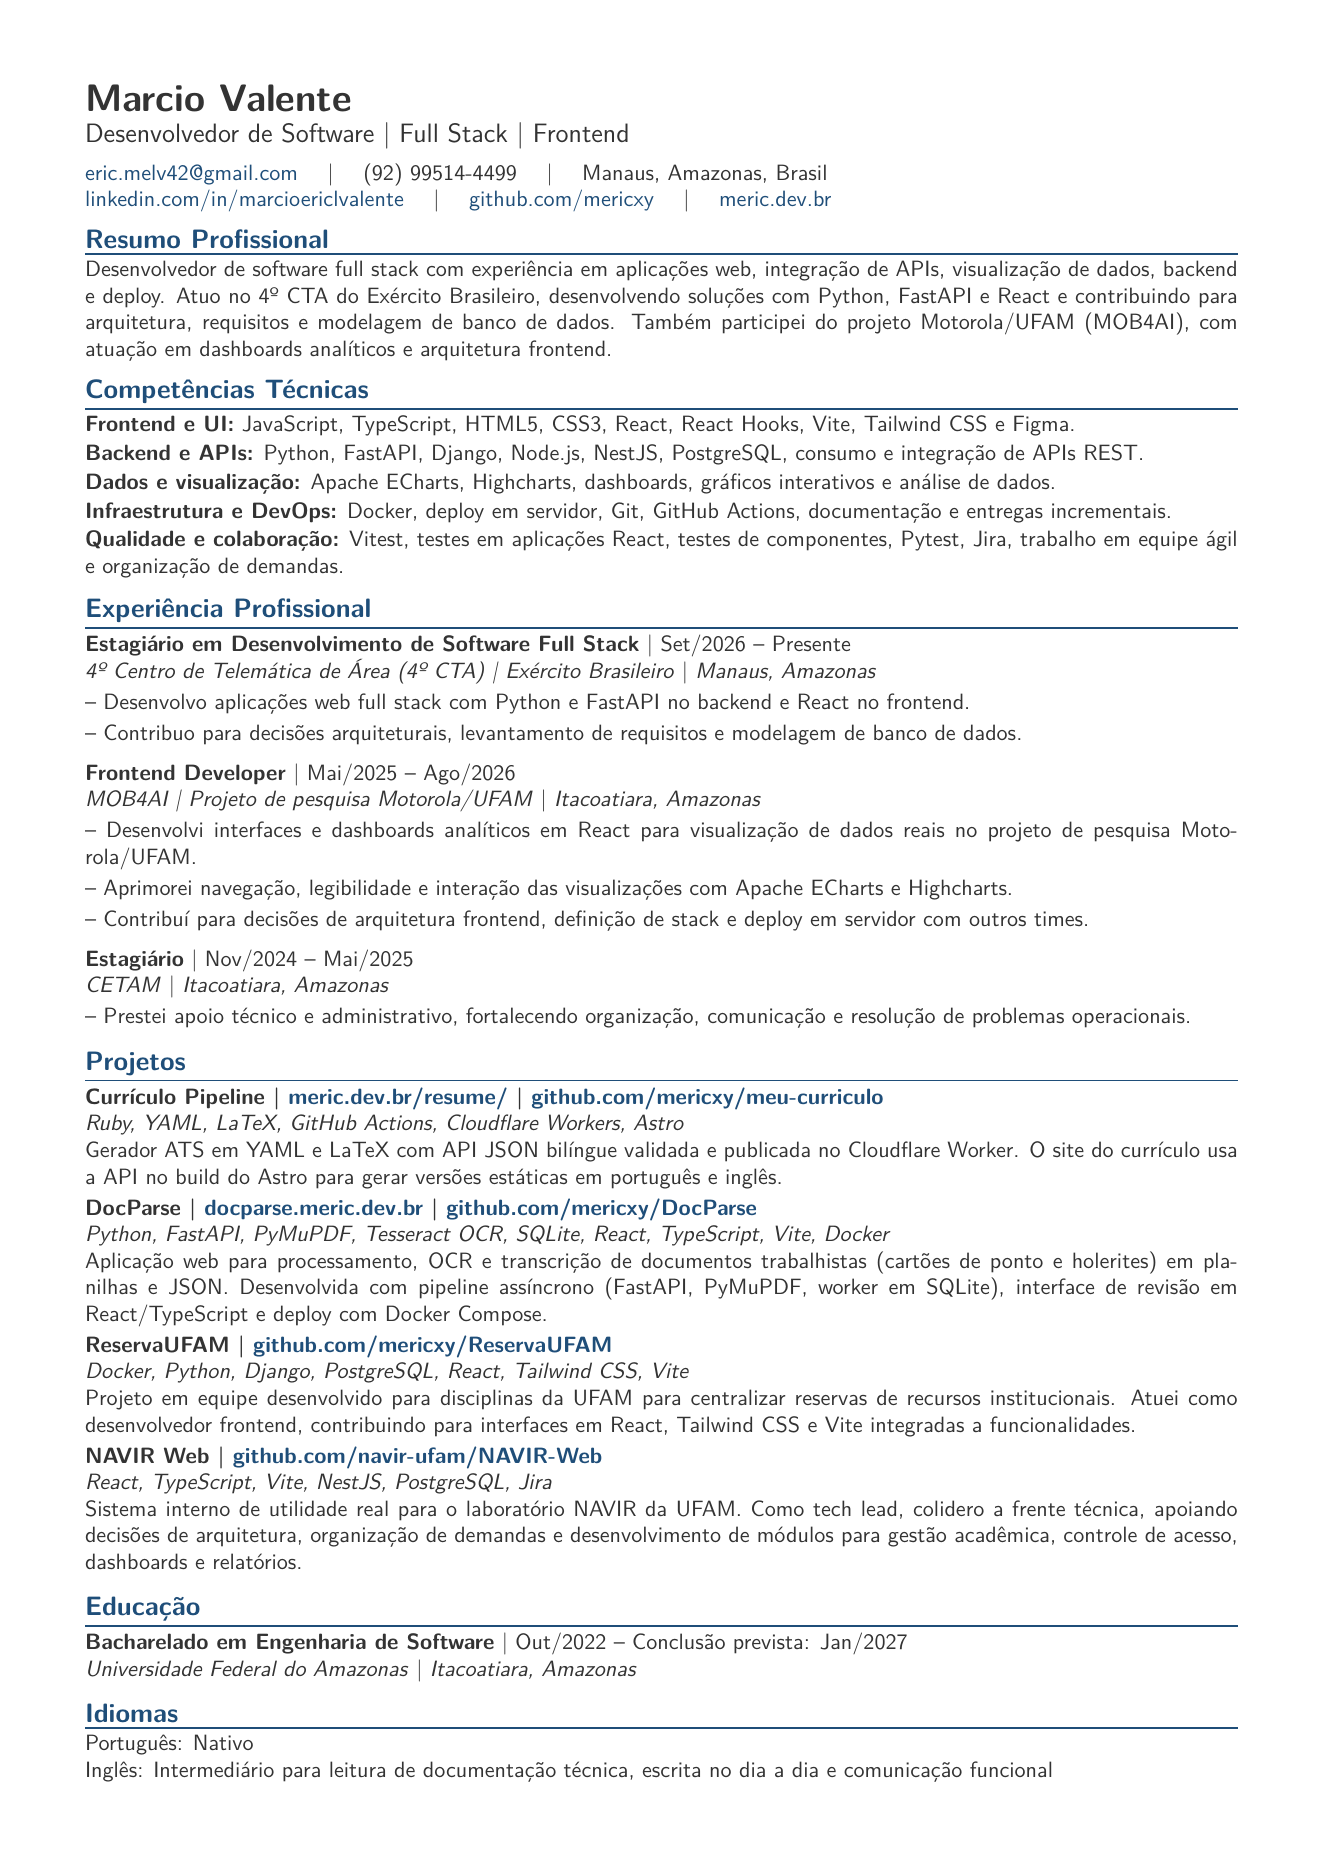
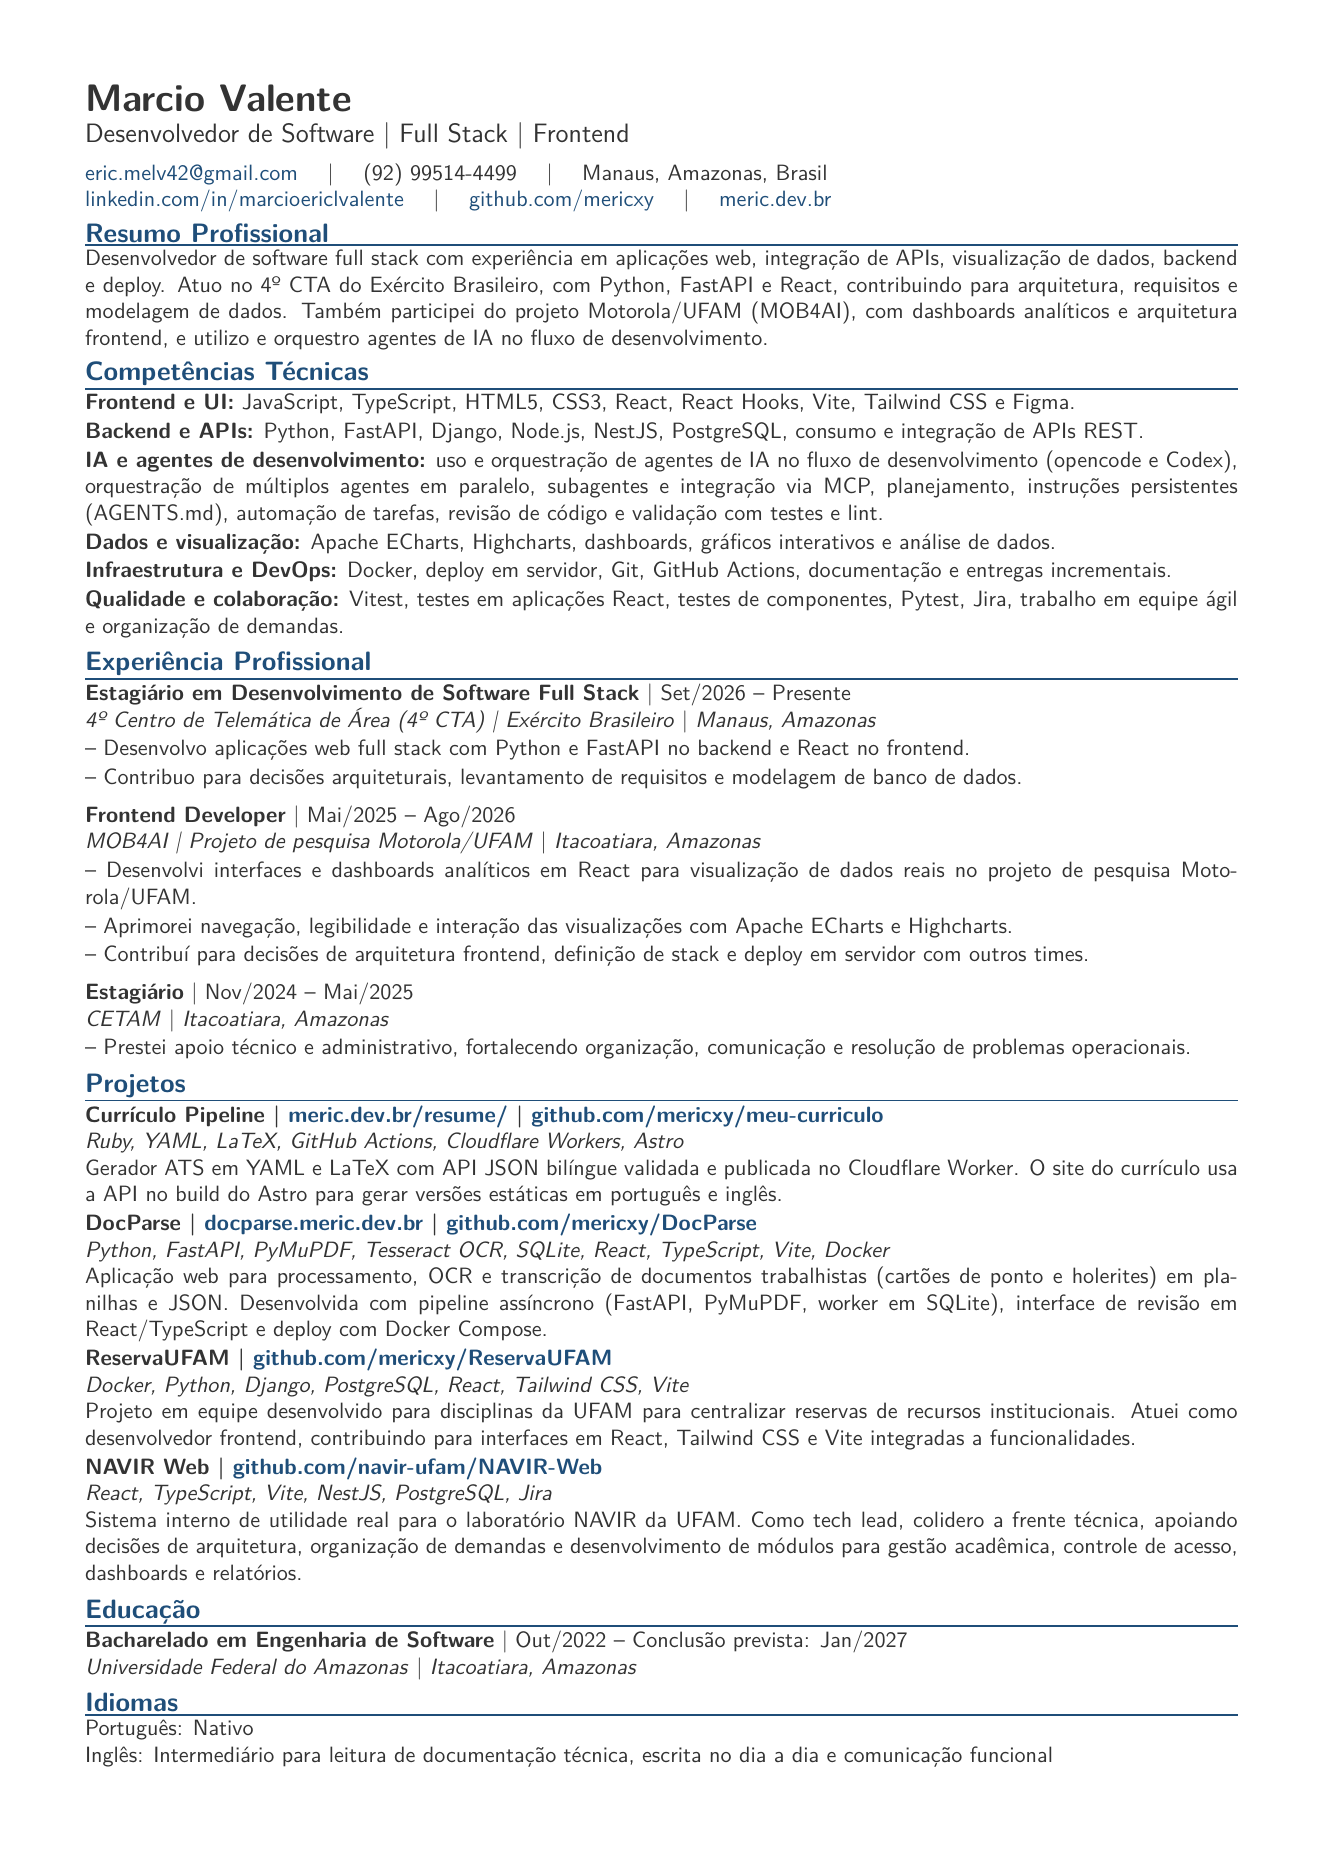
Add AI agent orchestration skills to software resume

Changed region(s): [[0.062, 0.124, 0.9297, 0.961], [0.5268, 0.868, 0.5888, 0.899], [0.6508, 0.868, 0.6818, 0.899]]

diff --git a/curriculo.tex b/curriculo.tex
@@ -4,11 +4,12 @@
 \resumeheader{Marcio Valente}{Desenvolvedor de Software | Full Stack | Frontend}{\href{\detokenize{mailto:eric.melv42@gmail.com}}{eric.melv42@gmail.com}}{(92) 99514-4499}{Manaus, Amazonas, Brasil}{\href{\detokenize{https://www.linkedin.com/in/marcioericlvalente}}{linkedin.com/in/marcioericlvalente}}{\href{\detokenize{https://www.github.com/mericxy}}{github.com/mericxy}}{\href{\detokenize{https://meric.dev.br}}{meric.dev.br}}
 
 \sectiontitle{Resumo Profissional}
-\resumeparagraph{Desenvolvedor de software full stack com experiência em aplicações web, integração de APIs, visualização de dados, backend e deploy. Atuo no 4º CTA do Exército Brasileiro, desenvolvendo soluções com Python, FastAPI e React e contribuindo para arquitetura, requisitos e modelagem de banco de dados. Também participei do projeto Motorola/UFAM (MOB4AI), com atuação em dashboards analíticos e arquitetura frontend.}
+\resumeparagraph{Desenvolvedor de software full stack com experiência em aplicações web, integração de APIs, visualização de dados, backend e deploy. Atuo no 4º CTA do Exército Brasileiro, com Python, FastAPI e React, contribuindo para arquitetura, requisitos e modelagem de dados. Também participei do projeto Motorola/UFAM (MOB4AI), com dashboards analíticos e arquitetura frontend, e utilizo e orquestro agentes de IA no fluxo de desenvolvimento.}
 
 \sectiontitle{Competências Técnicas}
 \skill{Frontend e UI}{JavaScript, TypeScript, HTML5, CSS3, React, React Hooks, Vite, Tailwind CSS e Figma.}
 \skill{Backend e APIs}{Python, FastAPI, Django, Node.js, NestJS, PostgreSQL, consumo e integração de APIs REST.}
+\skill{IA e agentes de desenvolvimento}{uso e orquestração de agentes de IA no fluxo de desenvolvimento (opencode e Codex), orquestração de múltiplos agentes em paralelo, subagentes e integração via MCP, planejamento, instruções persistentes (AGENTS.md), automação de tarefas, revisão de código e validação com testes e lint.}
 \skill{Dados e visualização}{Apache ECharts, Highcharts, dashboards, gráficos interativos e análise de dados.}
 \skill{Infraestrutura e DevOps}{Docker, deploy em servidor, Git, GitHub Actions, documentação e entregas incrementais.}
 \skill{Qualidade e colaboração}{Vitest, testes em aplicações React, testes de componentes, Pytest, Jira, trabalho em equipe ágil e organização de demandas.}

diff --git a/main.tex b/main.tex
@@ -27,27 +27,27 @@
 \color{textgray}
 
 \newcommand{\sectiontitle}[1]{%
-  \vspace{7pt}
+  \vspace{4pt}
   {\large\bfseries\color{accent} #1}\par
-  \vspace{2pt}
+  \vspace{1pt}
   {\color{accent}\hrule height 0.7pt}
-  \vspace{3pt}
+  \vspace{2pt}
 }
 
 \newcommand{\role}[4]{%
   \textbf{#1} | #2\par
   \textit{#3} | \textit{#4}\par
-  \vspace{2pt}
+  \vspace{1pt}
 }
 
 \newcommand{\project}[3]{%
   \textbf{#1}\par
   \textit{#2}\par
   #3\par
-  \vspace{2pt}
+  \vspace{1pt}
 }
 
-\newcommand{\achievement}[1]{-- #1\par\vspace{2pt}}
+\newcommand{\achievement}[1]{-- #1\par\vspace{1pt}}
 
 \newcommand{\skill}[2]{%
   \textbf{#1:} #2\par
